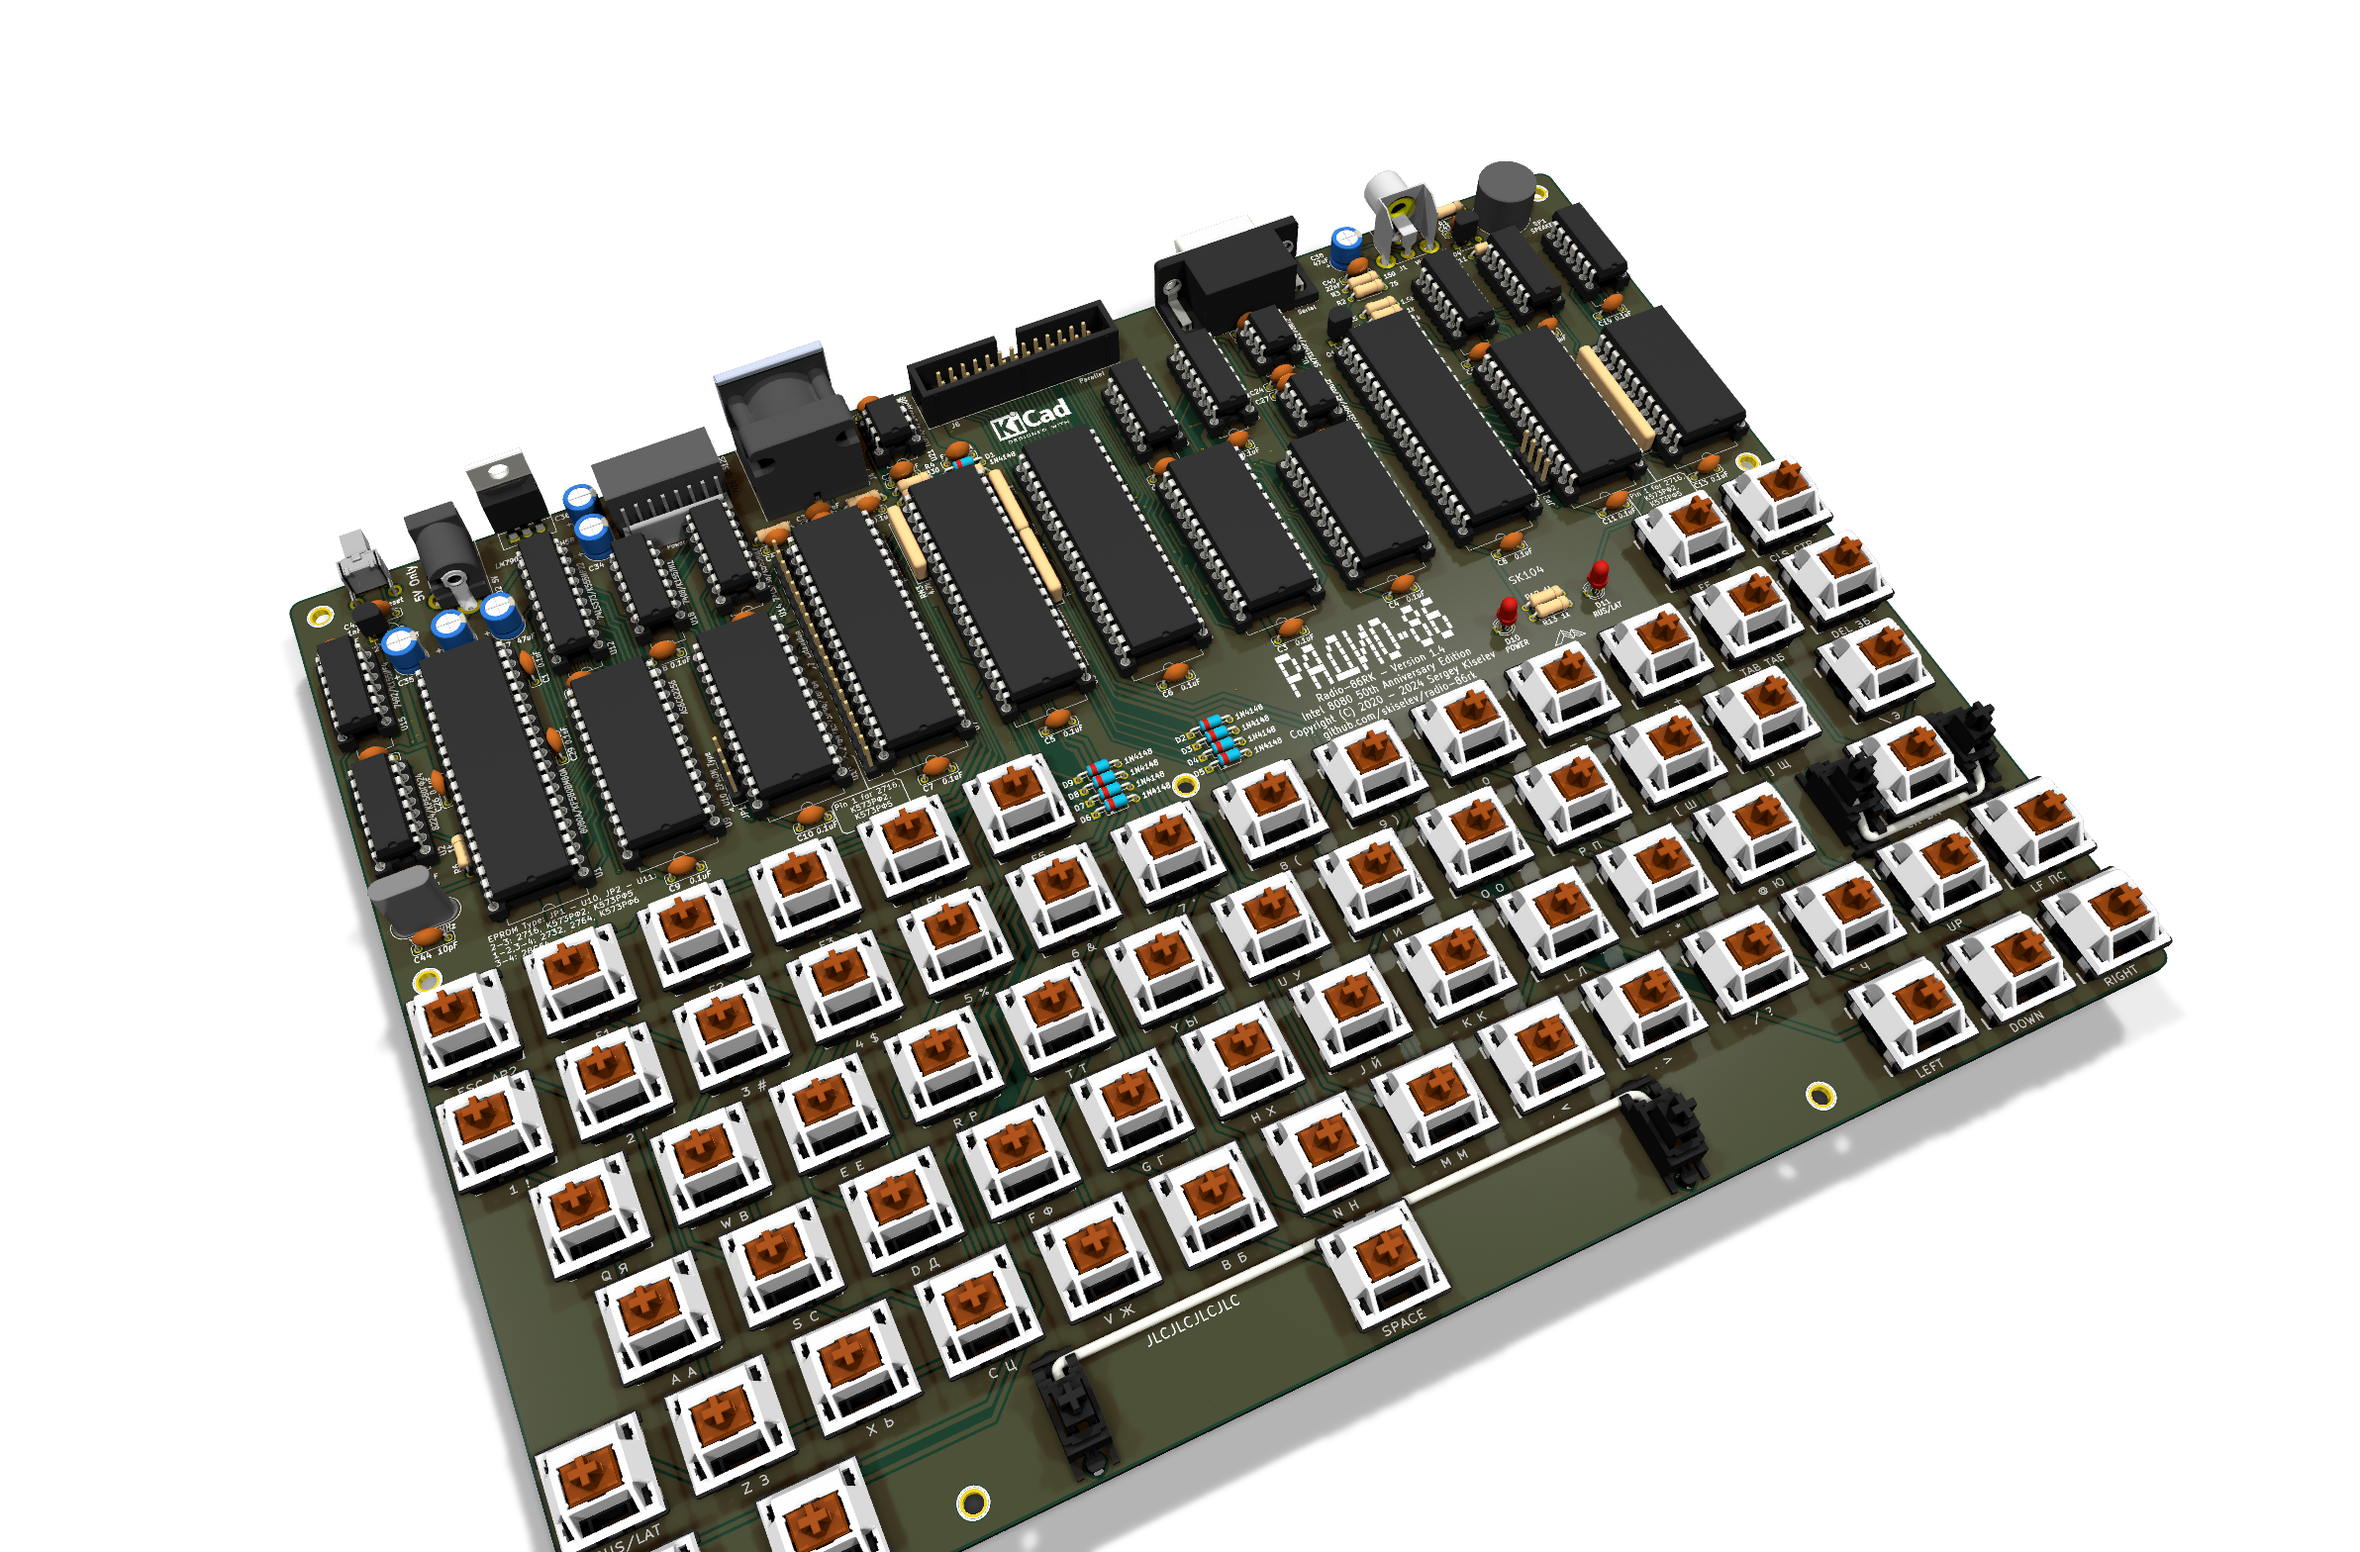
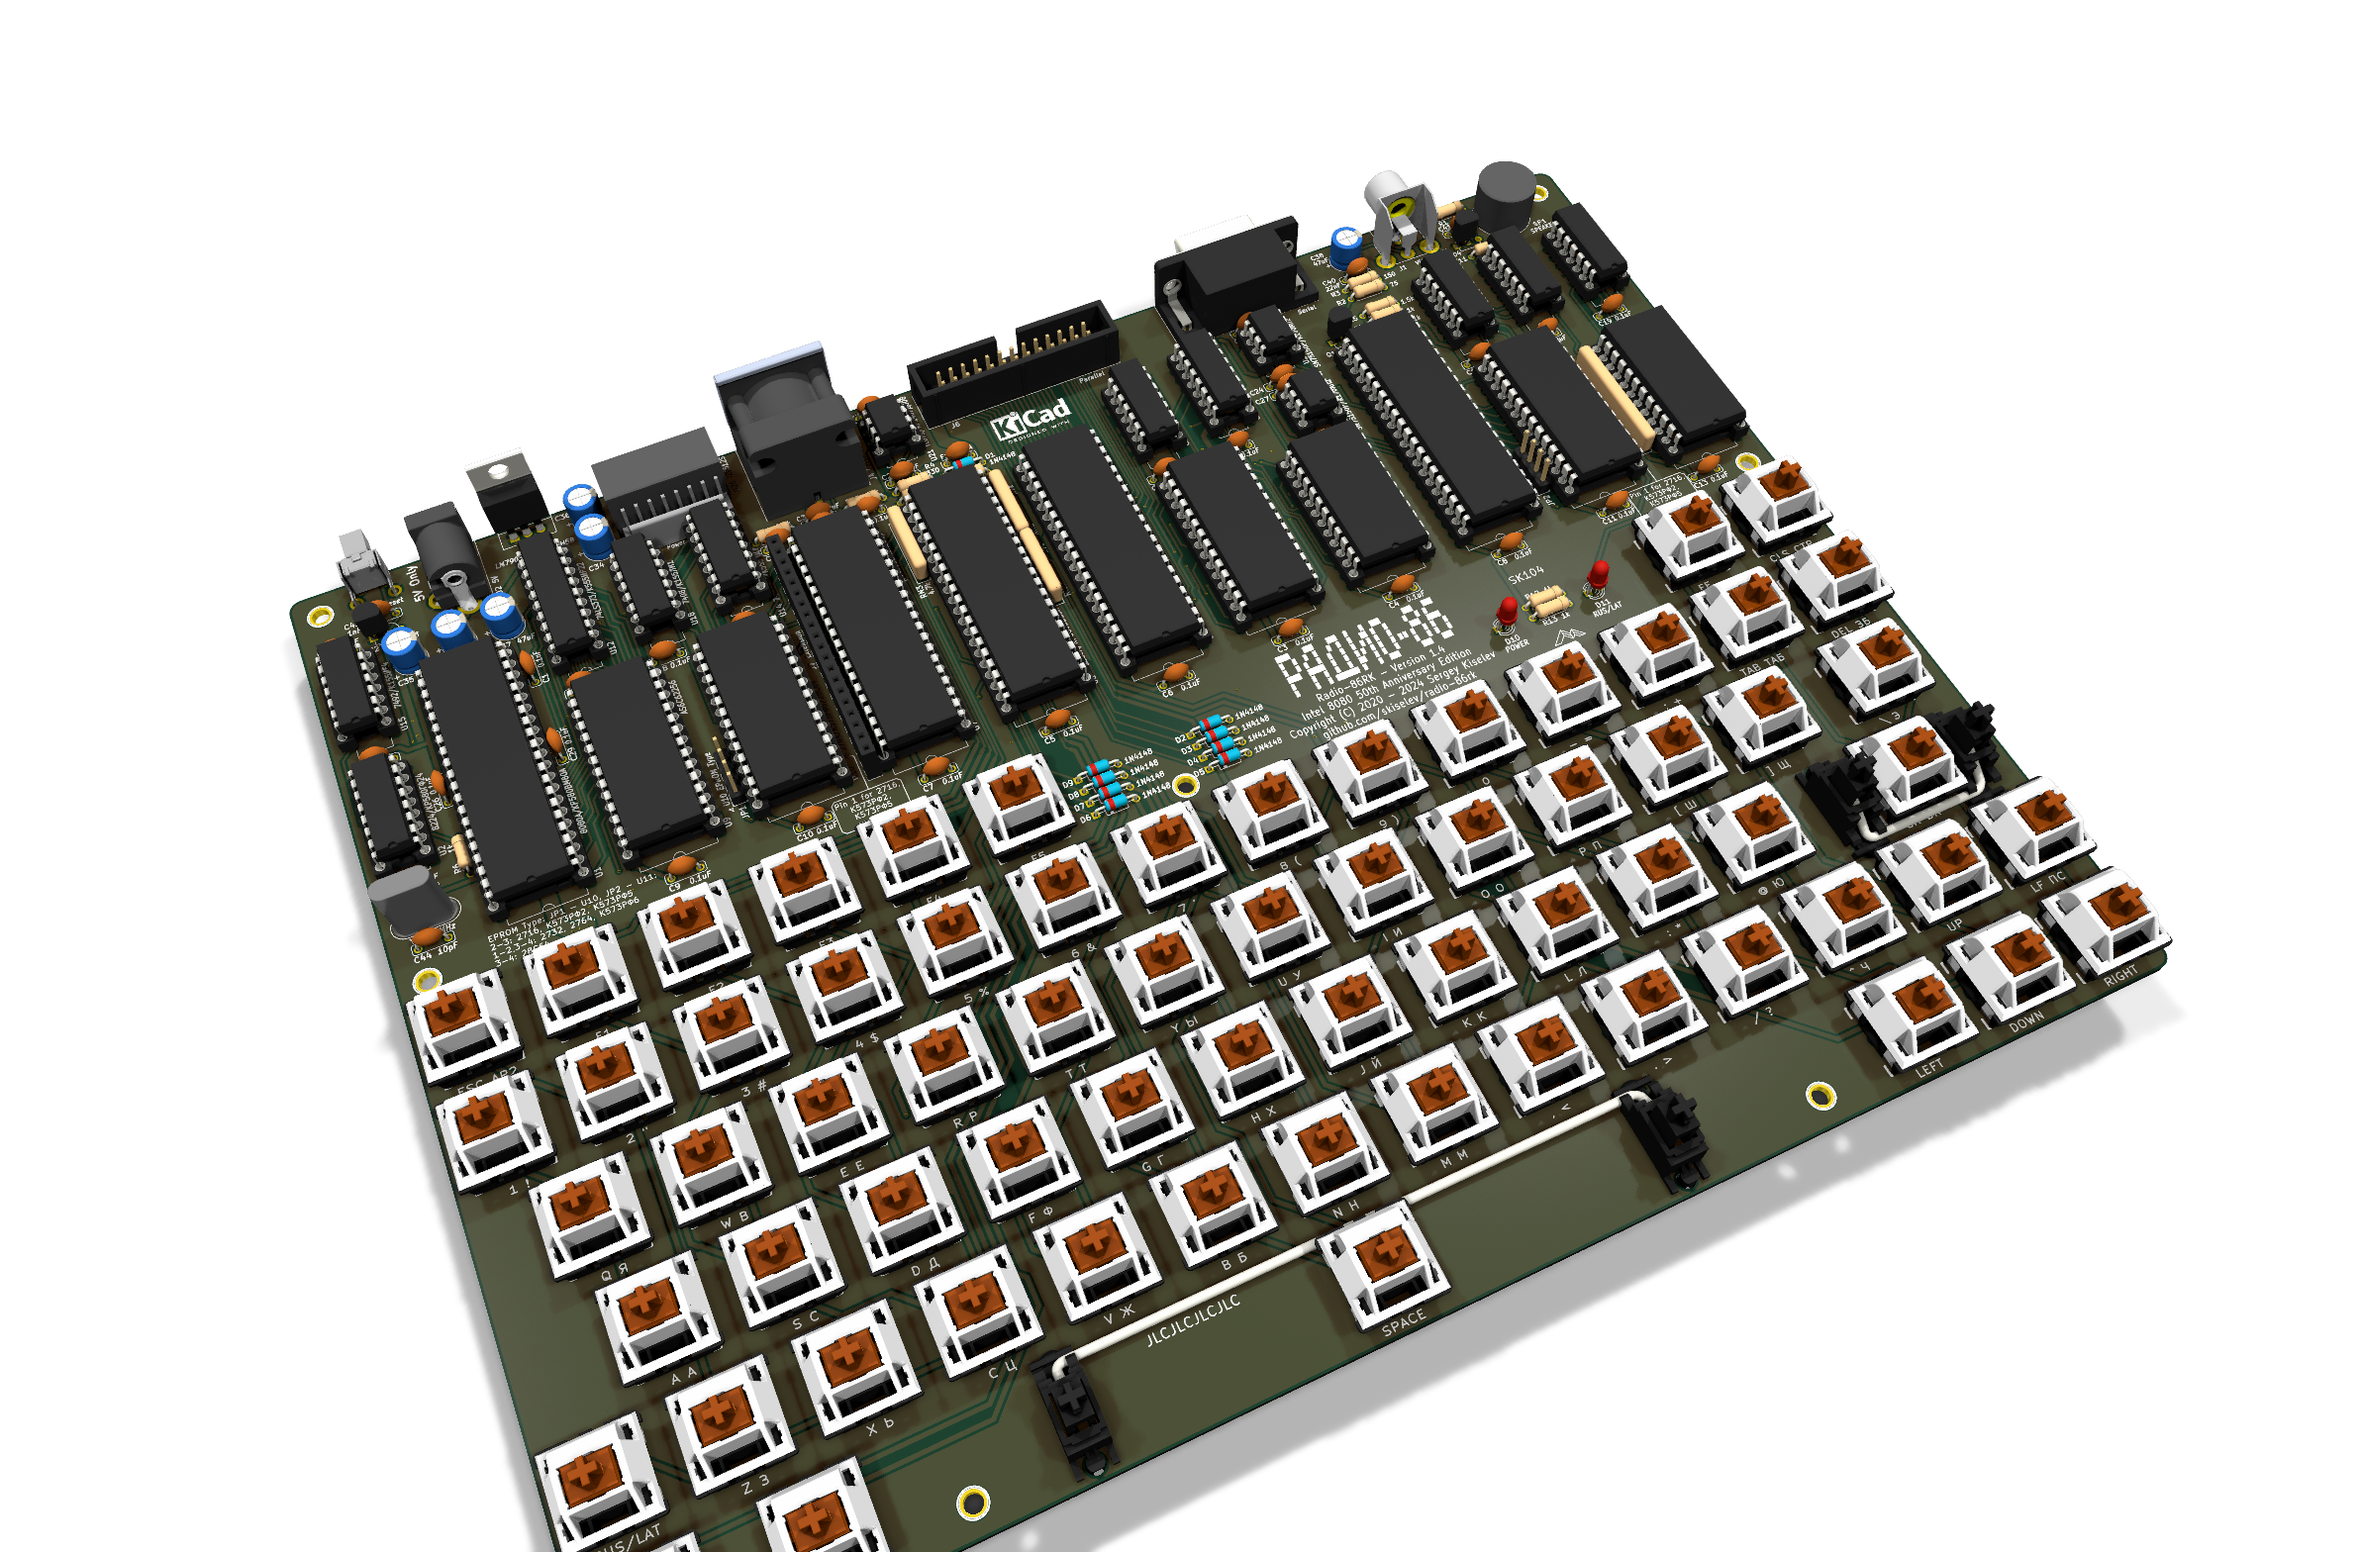
Render J7 as a socket, not a pin header
The footprint is named Conn_Pin_Header_20x1_2.54mm, inherited from the
board and unchangeable without changing a lib_id, so it had been given
PinHeader_1x20_P2.54mm_Vertical and rendered as 20 male pins. skiselev's
BOM (README line 205) calls for a 3M 929850-01-20-RB -- a female
receptacle strip, Mouser 517-929850-01-20-RB, for the optional extension
board. The old migrate2kicad10 branch had this right too, calling J7 a
"20x1 pin socket".

KiCad's PinSocket_1x20_P2.54mm_Vertical has pads identical to the
header's (pad 1 at the origin, running +Y), so the computed transform is
unchanged at off=(-24.13, 0) rot=270 and only the model path moves. The
footprint is used by J7 alone, so nothing else is affected.

J6 and JP1/JP2 were checked against the BOM at the same time: both are
genuinely male pin headers and stay as they are.

Copper untouched: gerber-gate --strict PASS, netlist-gate PASS,
coverage 183/183. Caught by looking at the render, like everything else
in this class.

Claude-Session: https://claude.ai/code/session_01J23USKeTkpPgzY5ddJr5TY

Changed region(s): [[0.3104, 0.3438, 0.3725, 0.5]]

diff --git a/tools/align_models.py b/tools/align_models.py
@@ -48,7 +48,10 @@ SOURCE = {
     "Conn_SIL6":               ("Resistor_THT",      "R_Array_SIP6"),
     "Conn_SIL10":              ("Resistor_THT",      "R_Array_SIP10"),
     "Conn_Pin_Header_4x1_2.54mm":  ("Connector_PinHeader_2.54mm", "PinHeader_1x04_P2.54mm_Vertical"),
-    "Conn_Pin_Header_20x1_2.54mm": ("Connector_PinHeader_2.54mm", "PinHeader_1x20_P2.54mm_Vertical"),
+    # J7 is a *socket*, not a header, despite the footprint's inherited name: skiselev's BOM
+    # calls for a 3M 929850-01-20-RB, a female receptacle strip (Mouser 517-929850-01-20-RB).
+    # The socket footprint's pads are identical to the header's, so only the model changes.
+    "Conn_Pin_Header_20x1_2.54mm": ("Connector_PinSocket_2.54mm", "PinSocket_1x20_P2.54mm_Vertical"),
     "Conn_Pin_Header_13x2_2.54mm_Shrouded": ("Connector_IDC", "IDC-Header_2x13_P2.54mm_Vertical"),
     "Conn_Friction_Lock_8P_2.54mm": ("Connector_Molex", "Molex_KK-254_AE-6410-08A_1x08_P2.54mm_Vertical"),
     # Housed variant: our footprint does carry the connector's two mounting holes -- 3.05 mm

diff --git a/docs/3d-model-sources.md b/docs/3d-model-sources.md
@@ -74,7 +74,7 @@ silkscreen markings, so package choices follow the Western parts.
 | `Conn_SIL6` | RN2–RN4 | `Resistor_THT/R_Array_SIP6` | exact pin count and pitch |
 | `Conn_SIL10` | RN1 | `Resistor_THT/R_Array_SIP10` | exact pin count and pitch |
 | `Conn_Pin_Header_4x1_2.54mm` | JP1, JP2 | `PinHeader_1x04_P2.54mm_Vertical` | exact |
-| `Conn_Pin_Header_20x1_2.54mm` | J7 | `PinHeader_1x20_P2.54mm_Vertical` | exact |
+| `Conn_Pin_Header_20x1_2.54mm` | J7 | `PinSocket_1x20_P2.54mm_Vertical` | female — see below |
 | `Conn_Pin_Header_13x2_2.54mm_Shrouded` | J6 | `IDC-Header_2x13_P2.54mm_Vertical` | exact |
 | `Conn_Friction_Lock_8P_2.54mm` | J3 | `Radio86RK.3dshapes/640456-8` | **the real part** — see below |
 | `Conn_Power_Jack_Circular_Pads` | J2 | `Radio86RK.3dshapes/KLDX-0202-A` | **the real part** |
@@ -84,6 +84,15 @@ silkscreen markings, so package choices follow the Western parts.
 
 `RN1`–`RN4` are SIP resistor networks, so `R_Array_SIP6`/`SIP10` are used rather than pin
 headers — same pin count and pitch, correct body.
+
+**J7 is a socket, not a header, despite its footprint name.** The name
+`Conn_Pin_Header_20x1_2.54mm` is inherited from the board and cannot change without
+changing a `lib_id`, but skiselev's BOM calls for a 3M **929850-01-20-RB** — a female
+receptacle strip (Mouser 517-929850-01-20-RB) for the optional extension board. It rendered
+as 20 male pins until this was caught in a render. KiCad's `PinSocket_1x20_P2.54mm_Vertical`
+has pads identical to the header's, so only the model changed and the transform is
+unaffected. J6 and JP1/JP2 were checked against the BOM at the same time and are genuinely
+male headers.
 
 ### The seven KiCad does not ship
 
@@ -330,7 +339,7 @@ Checked numerically (does the transform map every pad?) and visually:
 |---|---|---:|---:|---|
 | J5 | `Conn_Dsub_DE9M` | 180° | 0.107 mm | housing fills the silk outline, shell past the board edge, bosses on the mounting holes |
 | J6 | `Conn_Pin_Header_13x2_2.54mm_Shrouded` | 270° | 0.000 mm | shroud opening faces up |
-| J7 | `Conn_Pin_Header_20x1_2.54mm` | 270° | 0.000 mm | |
+| J7 | `Conn_Pin_Header_20x1_2.54mm` | 270° | 0.000 mm | a socket body with a row of receptacle holes, not pins |
 | JP1, JP2 | `Conn_Pin_Header_4x1_2.54mm` | 270° | 0.000 mm | pins on pads, body within the silk outline |
 | RN1 | `Conn_SIL10` | 0° | 0.000 mm | |
 | RN2–RN4 | `Conn_SIL6` | 0° | 0.000 mm | |
